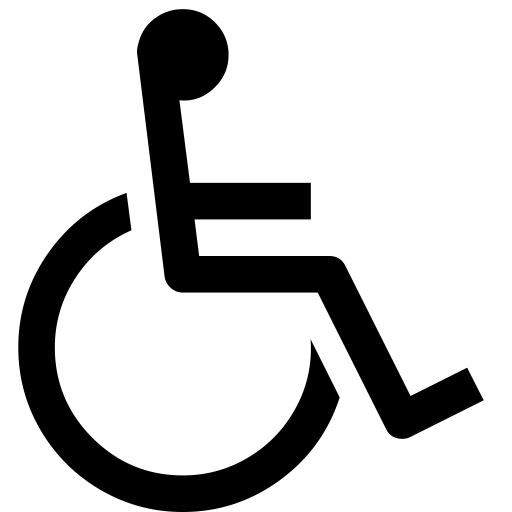
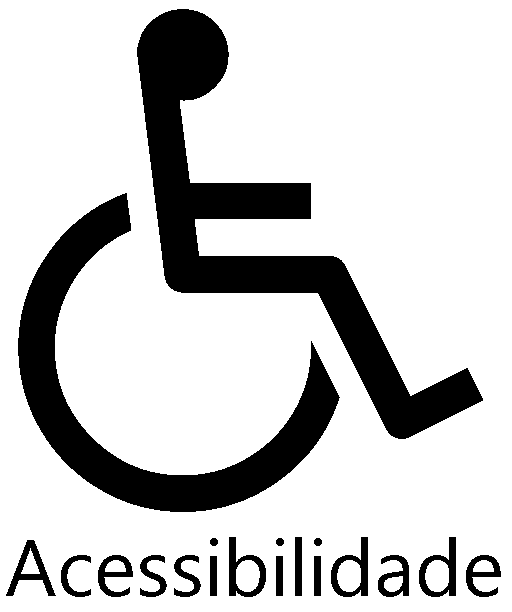
tela2

diff --git a/src/main/mobileapp/www/views/public/tela2.view.html b/src/main/mobileapp/www/views/public/tela2.view.html
@@ -1,0 +1,29 @@
+<ion-view class="pane"> 
+  <ion-header-bar align-title="center" class="bar bar-positive" xattr-theme="bar-positive" data-component="crn-ion-header-bar"> 
+    <div class="buttons buttons-left header-item"> 
+      <button class="button button-clear" menu-toggle="left" data-component="crn-button" xattr-type="button-clear"> <i class="icon ion-navicon"></i> </button> 
+    </div> 
+    <h1 class="title">Pandora Soterapolitana</h1> 
+    <div class="buttons buttons-right header-item"> 
+      <button class="button button-clear" menu-toggle="right" data-component="crn-button" xattr-type="button-clear"> <i class="icon ion-navicon"></i> </button> 
+    </div> 
+  </ion-header-bar> 
+  <ion-content data-component="crn-ion-content" class="scroll-content style1139 has-header"> 
+    <div data-replace="false" data-component="crn-container" class="component-holder" id="crn-container-447171"> 
+      <h1 data-component="crn-heading" class="component-holder text-center col-xs-12 col-md-12" id="crn-heading-65922" xattr-position="text-center">Title</h1> 
+       
+      <div data-replace="false" data-component="crn-container" class="col-xs-2 col-md-2 text-center borda" id="crn-container-91761"> 
+         
+        <div style="height: 15%;" data-component="crn-spacer" class="component-holder" id="crn-spacer-991258">&nbsp;</div><i class="ion ion-star component-holder" id="crn-icon-81291" style="; ; ; font-size:400%" xattr-size="font-size:400%" data-component="crn-icon"></i><div style="height: 15%;" data-component="crn-spacer" class="component-holder" id="crn-spacer-30561">&nbsp;</div><i class="ion ion-star component-holder" id="crn-icon-12141" style="; ; ; font-size:400%" xattr-size="font-size:400%" data-component="crn-icon"></i><div style="height: 15%;" data-component="crn-spacer" class="component-holder" id="crn-spacer-38721">&nbsp;</div><i class="ion ion-star component-holder" id="crn-icon-8101" style="; ; ; font-size:400%" xattr-size="font-size:400%" data-component="crn-icon"></i> 
+         
+      </div><div data-replace="false" data-component="crn-container" class="col-xs-8 col-md-8 text-center borda" id="crn-container-62231" style="height: 230px"> 
+        <div style="height: 30px;" data-component="crn-spacer" class="component-holder col-xs-12" id="crn-spacer-136675">&nbsp;</div><img src="img/pelo1.jpg" class="col-xs-12 proporcaoimg text-center" style="" xattr-position="center-block" data-component="crn-image" id="crn-image-676126"> 
+      </div><div data-replace="false" data-component="crn-container" class="col-md-2 col-xs-2 text-center borda" id="crn-container-45891"> 
+         
+        <div style="height: 15%;" data-component="crn-spacer" class="component-holder" id="crn-spacer-84911">&nbsp;</div><i class="ion ion-star" id="crn-icon-35911" style="; ; ; font-size:400%" xattr-size="font-size:400%" data-component="crn-icon"></i><div style="height: 15%;" data-component="crn-spacer" class="component-holder" id="crn-spacer-36271">&nbsp;</div><i class="ion ion-star component-holder" id="crn-icon-451" style="; ; ; font-size:400%" xattr-size="font-size:400%" data-component="crn-icon"></i><div style="height: 15%;" data-component="crn-spacer" class="component-holder" id="crn-spacer-7591">&nbsp;</div><i class="ion ion-star component-holder" id="crn-icon-69141" style="; ; ; font-size:400%" xattr-size="font-size:400%" data-component="crn-icon"></i> 
+         
+      </div><div data-replace="false" data-component="crn-container" class="col-md-12 text-center col-xs-6 borda" id="crn-container-463317"><i class="ion ion-star component-holder" id="crn-icon-16311" style="; ; ; font-size:400%" xattr-size="font-size:400%" data-component="crn-icon"></i></div><div data-replace="false" data-component="crn-container" class="col-md-12 text-center col-xs-6 borda" id="crn-container-1921"><i class="ion ion-star component-holder" id="crn-icon-83471" style="; ; ; font-size:400%" xattr-size="font-size:400%" data-component="crn-icon"></i></div><div style="height: 30px;" data-component="crn-spacer" class="component-holder col-md-12 col-xs-12" id="crn-spacer-256738">&nbsp;</div><p xattr-position="text-center" class="text-center component-holder col-md-12 col-xs-12" data-component="crn-paragraph" id="crn-paragraph-213495">O Pelourinho, popularmente chamado de Pelô, é o nome de um bairro da cidade de Salvador, no Brasil. Localiza-se no Centro Histórico da cidade, na área que abrange apenas as ruas que vão do Terreiro de Jesus até o Largo do Pelourinho,[1] o qual possui um conjunto arquitetônico colonial barroco brasileiro preservado e integrante do Patrimônio Histórico da Organização das Nações Unidas para a Educação, a Ciência e a Cultura.</p> 
+       
+    </div> 
+  </ion-content> 
+</ion-view>

diff --git a/src/main/mobileapp/www/views/public/tela3.view.html b/src/main/mobileapp/www/views/public/tela3.view.html
@@ -1,0 +1,45 @@
+<ion-view class="pane"> 
+  <ion-header-bar align-title="center" class="bar bar-positive" xattr-theme="bar-positive" data-component="crn-ion-header-bar"> 
+    <div class="buttons buttons-left header-item"> 
+      <button class="button button-clear" menu-toggle="left" data-component="crn-button" xattr-type="button-clear"> <i class="icon ion-navicon"></i> </button> 
+    </div> 
+    <h1 class="title">ssss</h1> 
+    <div class="buttons buttons-right header-item"> 
+      <button class="button button-clear" menu-toggle="right" data-component="crn-button" xattr-type="button-clear"> <i class="icon ion-navicon"></i> </button> 
+    </div> 
+  </ion-header-bar> 
+  <ion-content data-component="crn-ion-content" class="scroll-content style1139 has-header"> 
+    <div data-replace="false" data-component="crn-container" class="component-holder" id="crn-container-447171"> 
+      <h1 data-component="crn-heading" class="component-holder text-center col-xs-12 col-md-12 col-sm-12" id="crn-heading-65922" xattr-position="text-center">Title</h1> 
+      <div data-replace="false" data-component="crn-container" class="col-xs-2 borda col-md-2 text-center col-sm-2" id="crn-container-91761"> 
+        <div style="height: 10%;" data-component="crn-spacer" class="text-center component-holder col-sm-12 col-xs-12" id="crn-spacer-651178">
+          &nbsp;
+        </div><img src="img/acessibilidade.png" style="width: 100px;" class="col-sm-12 text-center center-block col-xs-12" xattr-position="center-block" data-component="crn-image" id="crn-image-113464">
+        <div style="height: 10%;" data-component="crn-spacer" class="text-center component-holder col-sm-12 col-xs-12" id="crn-spacer-86511">
+          &nbsp;
+        </div>
+        <img src="img/nophoto.png" class="component-holder text-center  col-sm-12 col-xs-12" style="" xattr-position="" data-component="crn-image" id="crn-image-79251">
+        <div style="height: 10%;" data-component="crn-spacer" class="component-holder col-sm-12 col-xs-12" id="crn-spacer-67471">
+          &nbsp;
+        </div>
+        <img src="img/nophoto.png" class="component-holder col-sm-12 col-xs-12" style="" xattr-position="" data-component="crn-image" id="crn-image-86201"> 
+      </div>
+      <div data-replace="false" data-component="crn-container" class="borda col-xs-8 col-md-8  col-sm-8" id="crn-container-62231"> 
+        <img src="img/nophoto.png" class="component-holder col-xs-12 col-md-12" style="" xattr-position="" data-component="crn-image" id="crn-image-676126"> 
+      </div>
+      <div data-replace="false" data-component="crn-container" class="col-xs-2 borda text-center" id="crn-container-59341"> 
+        <div style="height: 10%;" data-component="crn-spacer" class="component-holder col-sm-12" id="crn-spacer-15031">
+          &nbsp;
+        </div><img src="img/back.JPG" class="col-sm-12" xattr-position="left-block text-center " data-component="crn-image" id="crn-image-5431">
+        <div style="height: 10%;" data-component="crn-spacer" class="component-holder col-sm-12" id="crn-spacer-38241">
+          &nbsp;
+        </div>
+        <img src="img/nophoto.png" class="component-holder col-sm-12 text-center" style="" xattr-position="" data-component="crn-image" id="crn-image-5431">
+        <div style="height: 10%;" data-component="crn-spacer" class="component-holder col-sm-12" id="crn-spacer-90951">
+          &nbsp;
+        </div>
+        <img src="img/nophoto.png" class="component-holder col-sm-12" style="" xattr-position="" data-component="crn-image" id="crn-image-5431"> 
+      </div> 
+    </div> 
+  </ion-content> 
+</ion-view>

diff --git a/src/main/mobileapp/www/css/app.css b/src/main/mobileapp/www/css/app.css
@@ -1,5 +1,3 @@
-
-
 ion-content button { 
   margin-top: 10px;
   margin-bottom: 10px;
@@ -12,4 +10,15 @@ ion-content button {
   margin-left: -30px;
   width: 200px;
   max-width: 200px;
+}
+
+.borda { 
+  border-style: solid;
+  border-width: 1px;
+}
+
+.proporcaoimg { 
+  max-width: 100%;
+  width: auto;
+  height: auto;
 }
